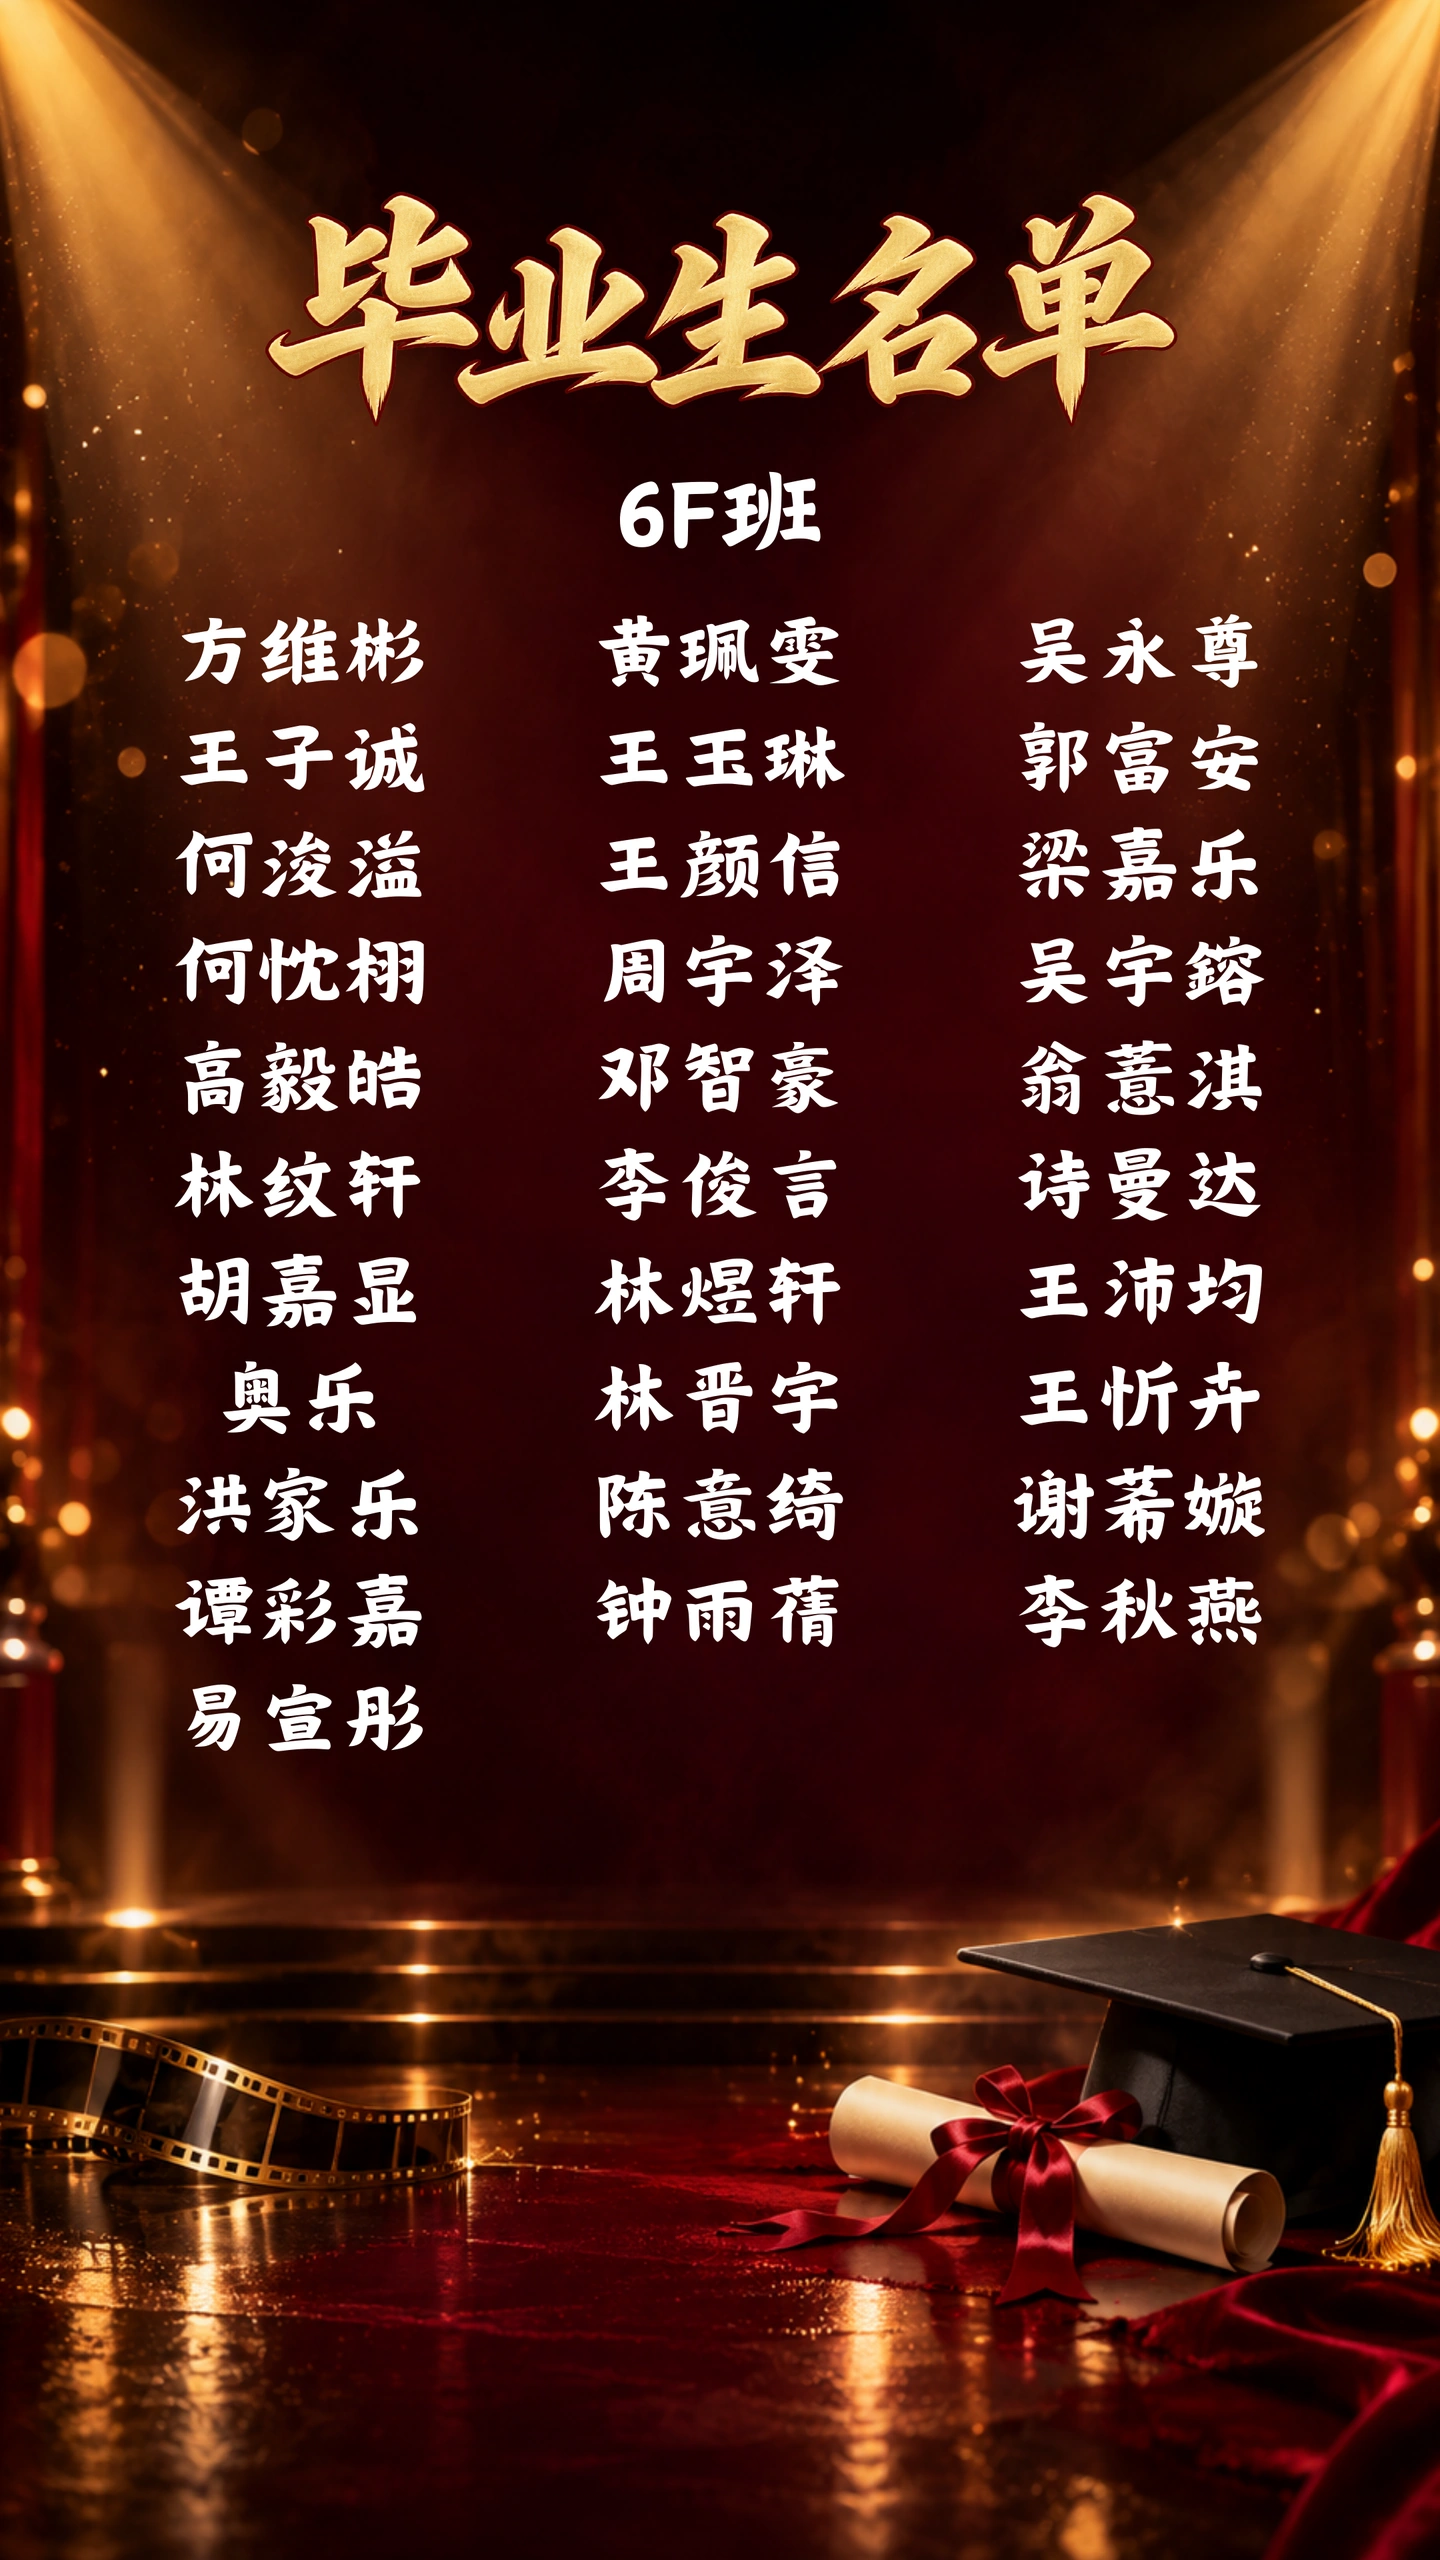
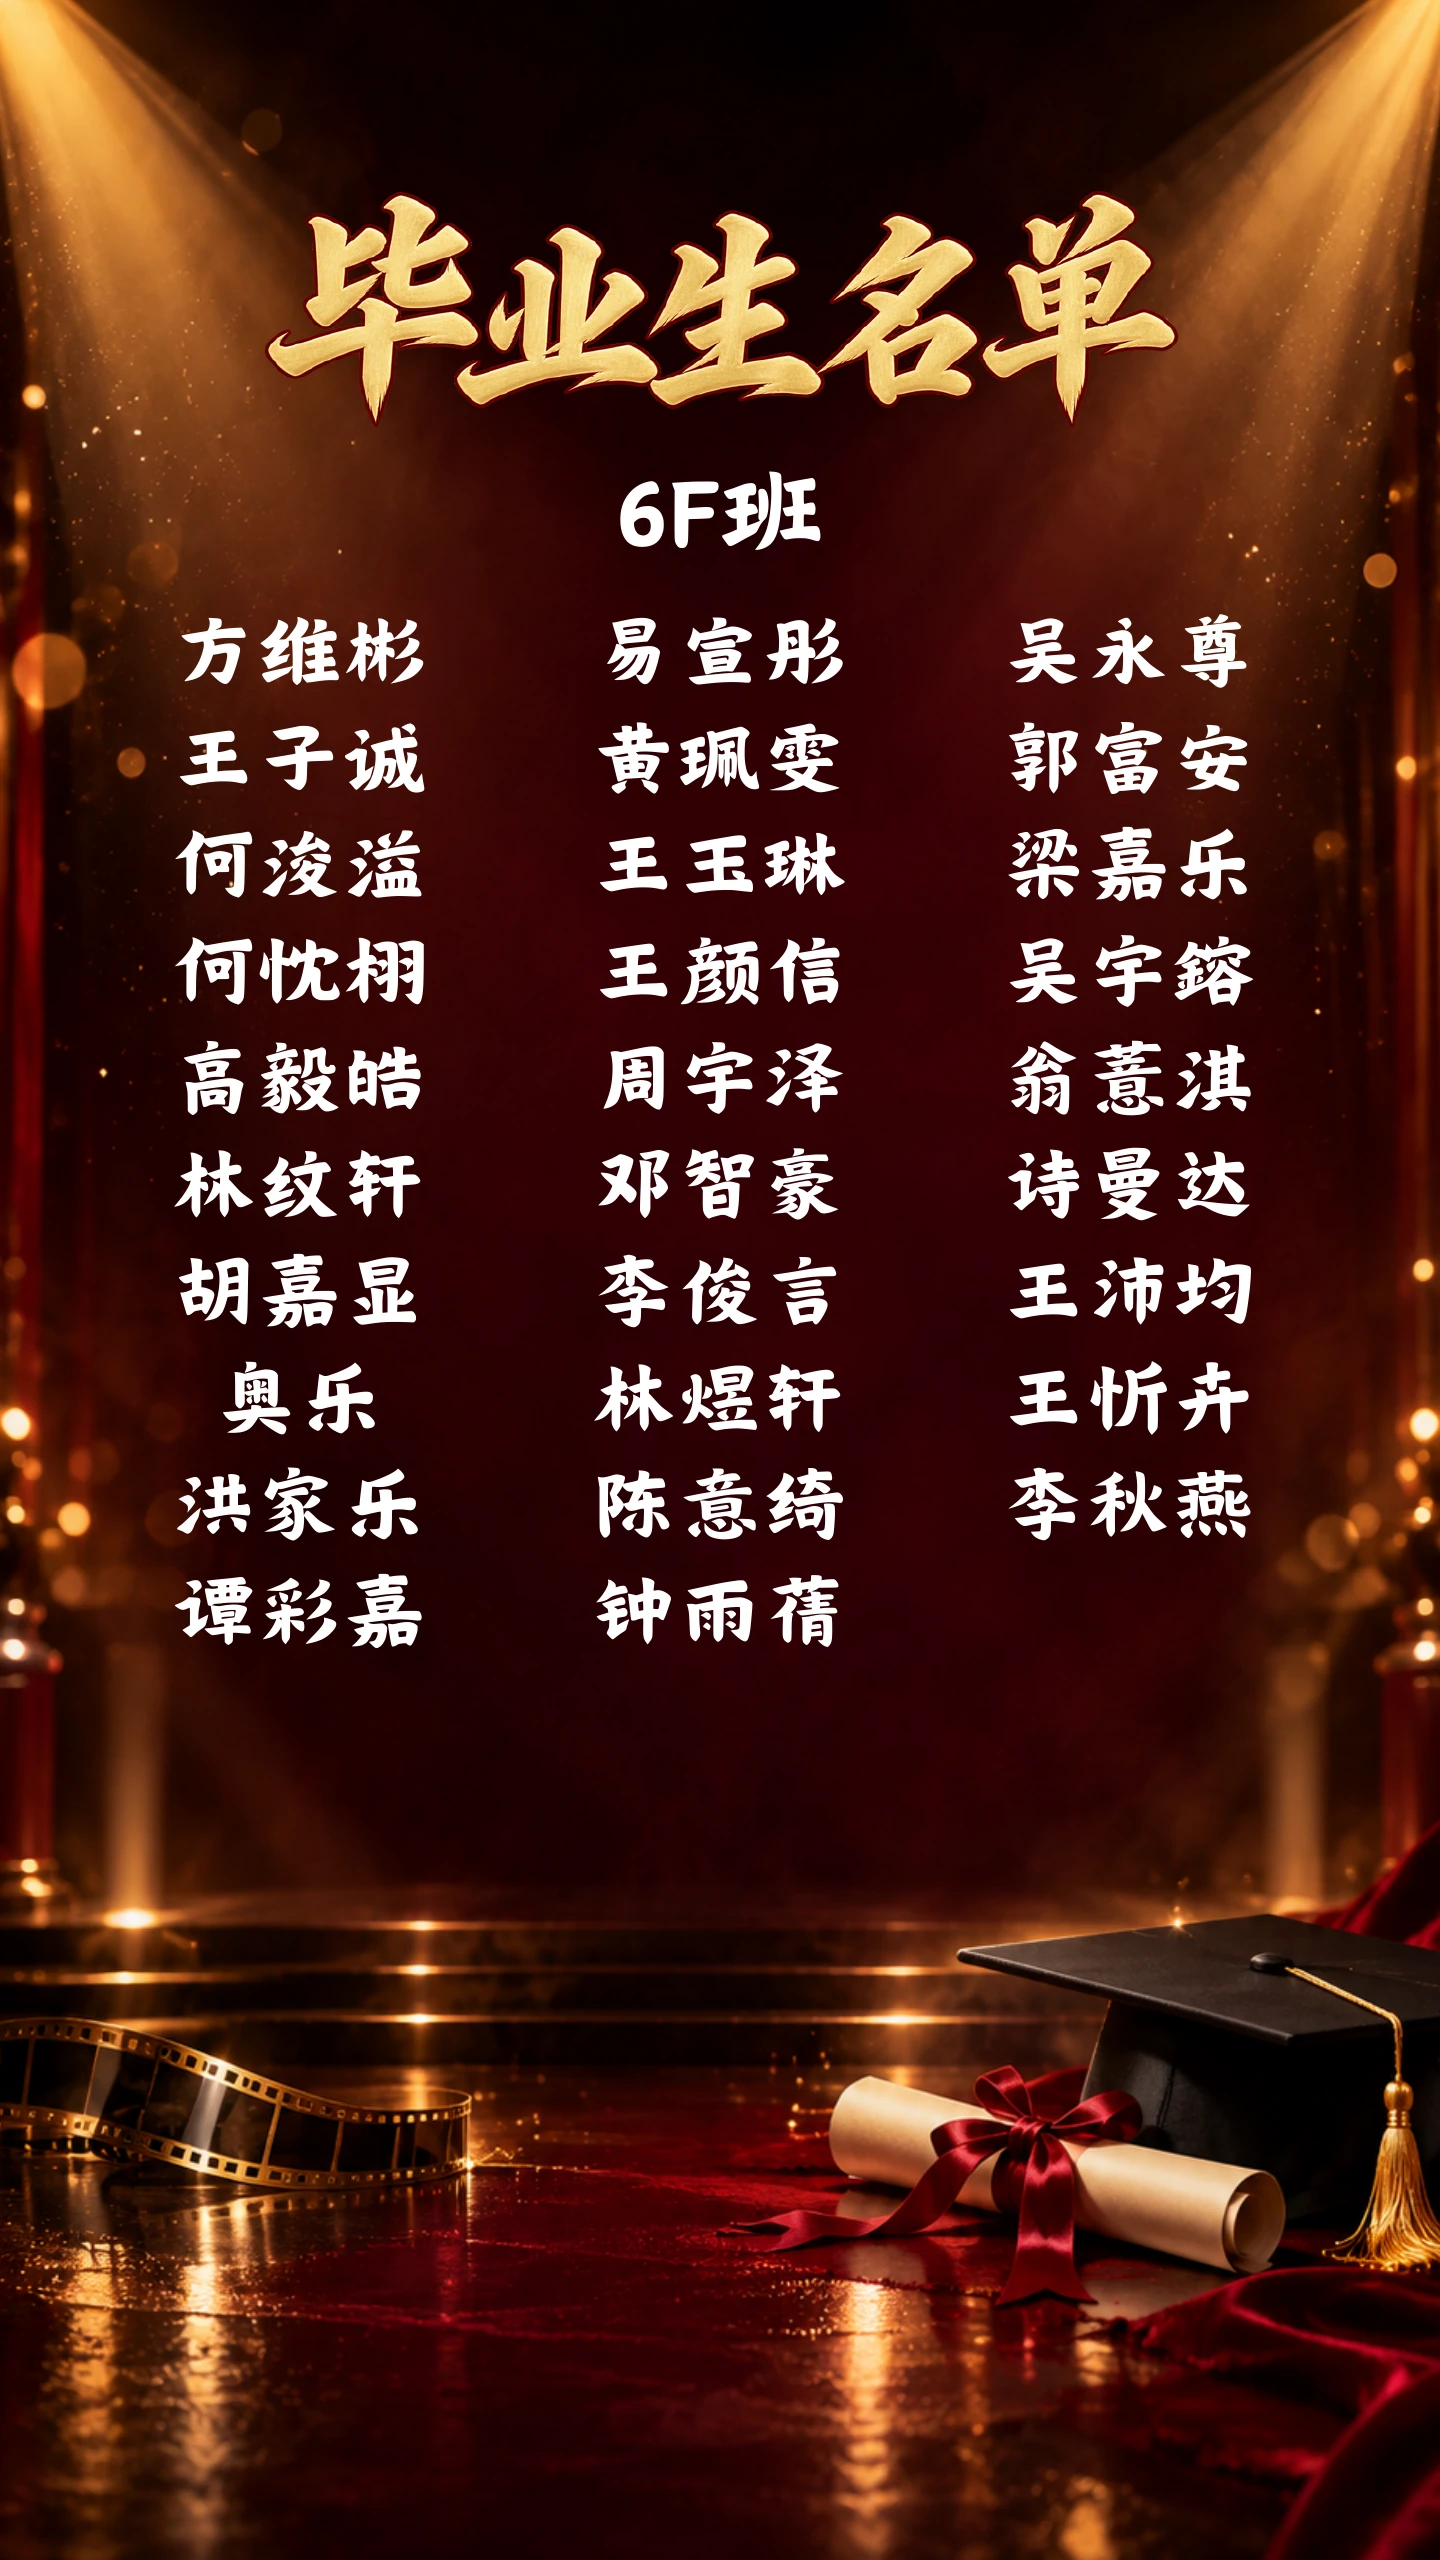
Update the 6F page from the latest Canva export

diff --git a/index.html b/index.html
@@ -1,1 +1,1 @@
-<!doctype html><html lang="zh-Hans"><head><meta charset="UTF-8"><meta name="viewport" content="width=device-width,initial-scale=1,viewport-fit=cover"><meta name="theme-color" content="#100b0d"><title>下一幕，出发</title><link rel="stylesheet" href="style.css?v=9"></head><body><main class="stage" aria-label="毕业纪念册"><div id="book"></div><script id="page-data" type="application/json">[{"src": "assets/hq-1-1440.webp", "alt": "封面"}, {"src": "assets/hq-2-1440.webp?v=15", "alt": "典礼流程"}, {"src": "assets/hq-3-1440.webp?v=16", "alt": "6A毕业生名单"}, {"src": "assets/hq-4-1440.webp", "alt": "6B毕业生名单"}, {"src": "assets/hq-5-1440.webp", "alt": "6C毕业生名单"}, {"src": "assets/hq-6-1440.webp", "alt": "6D毕业生名单"}, {"src": "assets/hq-7-1440.webp", "alt": "6E毕业生名单"}, {"src": "assets/hq-8-1440.webp", "alt": "6F毕业生名单"}, {"src": "assets/hq-9-1440.webp", "alt": "致第七十四届毕业生"}]</script><div class="fx" aria-hidden="true"><svg class="magic" viewBox="0 0 100 178" preserveAspectRatio="none"><defs><filter id="magic-soft"><feGaussianBlur stdDeviation="1.2"/></filter></defs><g><path class="trail halo" pathLength="1000" d="M4 153 C36 183 109 149 96 100 C86 62 -3 67 9 29 C17 5 61 3 94 23"/><path class="trail core" pathLength="1000" d="M4 153 C36 183 109 149 96 100 C86 62 -3 67 9 29 C17 5 61 3 94 23"/><path class="sparks" pathLength="1000" d="M4 153 C36 183 109 149 96 100 C86 62 -3 67 9 29 C17 5 61 3 94 23"/></g></svg></div></main><nav aria-label="翻页与音乐"><button id="prev" aria-label="上一页"><svg viewBox="0 0 24 24"><path d="m14 6-6 6 6 6"/></svg></button><button id="music" aria-label="音乐已开启，等待首次点击播放；点击关闭；长按查看音乐来源" title="音乐开关 · 长按或右键查看来源" aria-pressed="true"><svg viewBox="0 0 24 24"><path d="M9 18V5l11-2v13M9 8l11-2"/><ellipse cx="6" cy="18" rx="3" ry="2"/><ellipse cx="17" cy="16" rx="3" ry="2"/><path class="muted-mark" d="m3 3 18 18"/></svg></button><button id="next" aria-label="下一页"><svg viewBox="0 0 24 24"><path d="m10 6 6 6-6 6"/></svg></button></nav><aside id="music-credit" hidden>In Your Arms — Kevin MacLeod<br><a href="https://incompetech.com/" target="_blank" rel="noopener">incompetech.com</a><br>Licensed under <a href="https://creativecommons.org/licenses/by/4.0/" target="_blank" rel="noopener">Creative Commons Attribution 4.0</a><br>Original recording, unchanged.</aside><audio id="soundtrack" src="assets/in-your-arms.mp3" preload="auto" loop></audio><script src="assets/page-flip.js?v=12"></script><script src="app.js?v=9"></script><script src="music.js?v=12"></script></body></html>
+<!doctype html><html lang="zh-Hans"><head><meta charset="UTF-8"><meta name="viewport" content="width=device-width,initial-scale=1,viewport-fit=cover"><meta name="theme-color" content="#100b0d"><title>下一幕，出发</title><link rel="stylesheet" href="style.css?v=9"></head><body><main class="stage" aria-label="毕业纪念册"><div id="book"></div><script id="page-data" type="application/json">[{"src": "assets/hq-1-1440.webp", "alt": "封面"}, {"src": "assets/hq-2-1440.webp?v=15", "alt": "典礼流程"}, {"src": "assets/hq-3-1440.webp?v=16", "alt": "6A毕业生名单"}, {"src": "assets/hq-4-1440.webp", "alt": "6B毕业生名单"}, {"src": "assets/hq-5-1440.webp", "alt": "6C毕业生名单"}, {"src": "assets/hq-6-1440.webp", "alt": "6D毕业生名单"}, {"src": "assets/hq-7-1440.webp", "alt": "6E毕业生名单"}, {"src": "assets/hq-8-1440.webp?v=17", "alt": "6F毕业生名单"}, {"src": "assets/hq-9-1440.webp", "alt": "致第七十四届毕业生"}]</script><div class="fx" aria-hidden="true"><svg class="magic" viewBox="0 0 100 178" preserveAspectRatio="none"><defs><filter id="magic-soft"><feGaussianBlur stdDeviation="1.2"/></filter></defs><g><path class="trail halo" pathLength="1000" d="M4 153 C36 183 109 149 96 100 C86 62 -3 67 9 29 C17 5 61 3 94 23"/><path class="trail core" pathLength="1000" d="M4 153 C36 183 109 149 96 100 C86 62 -3 67 9 29 C17 5 61 3 94 23"/><path class="sparks" pathLength="1000" d="M4 153 C36 183 109 149 96 100 C86 62 -3 67 9 29 C17 5 61 3 94 23"/></g></svg></div></main><nav aria-label="翻页与音乐"><button id="prev" aria-label="上一页"><svg viewBox="0 0 24 24"><path d="m14 6-6 6 6 6"/></svg></button><button id="music" aria-label="音乐已开启，等待首次点击播放；点击关闭；长按查看音乐来源" title="音乐开关 · 长按或右键查看来源" aria-pressed="true"><svg viewBox="0 0 24 24"><path d="M9 18V5l11-2v13M9 8l11-2"/><ellipse cx="6" cy="18" rx="3" ry="2"/><ellipse cx="17" cy="16" rx="3" ry="2"/><path class="muted-mark" d="m3 3 18 18"/></svg></button><button id="next" aria-label="下一页"><svg viewBox="0 0 24 24"><path d="m10 6 6 6-6 6"/></svg></button></nav><aside id="music-credit" hidden>In Your Arms — Kevin MacLeod<br><a href="https://incompetech.com/" target="_blank" rel="noopener">incompetech.com</a><br>Licensed under <a href="https://creativecommons.org/licenses/by/4.0/" target="_blank" rel="noopener">Creative Commons Attribution 4.0</a><br>Original recording, unchanged.</aside><audio id="soundtrack" src="assets/in-your-arms.mp3" preload="auto" loop></audio><script src="assets/page-flip.js?v=12"></script><script src="app.js?v=9"></script><script src="music.js?v=12"></script></body></html>
